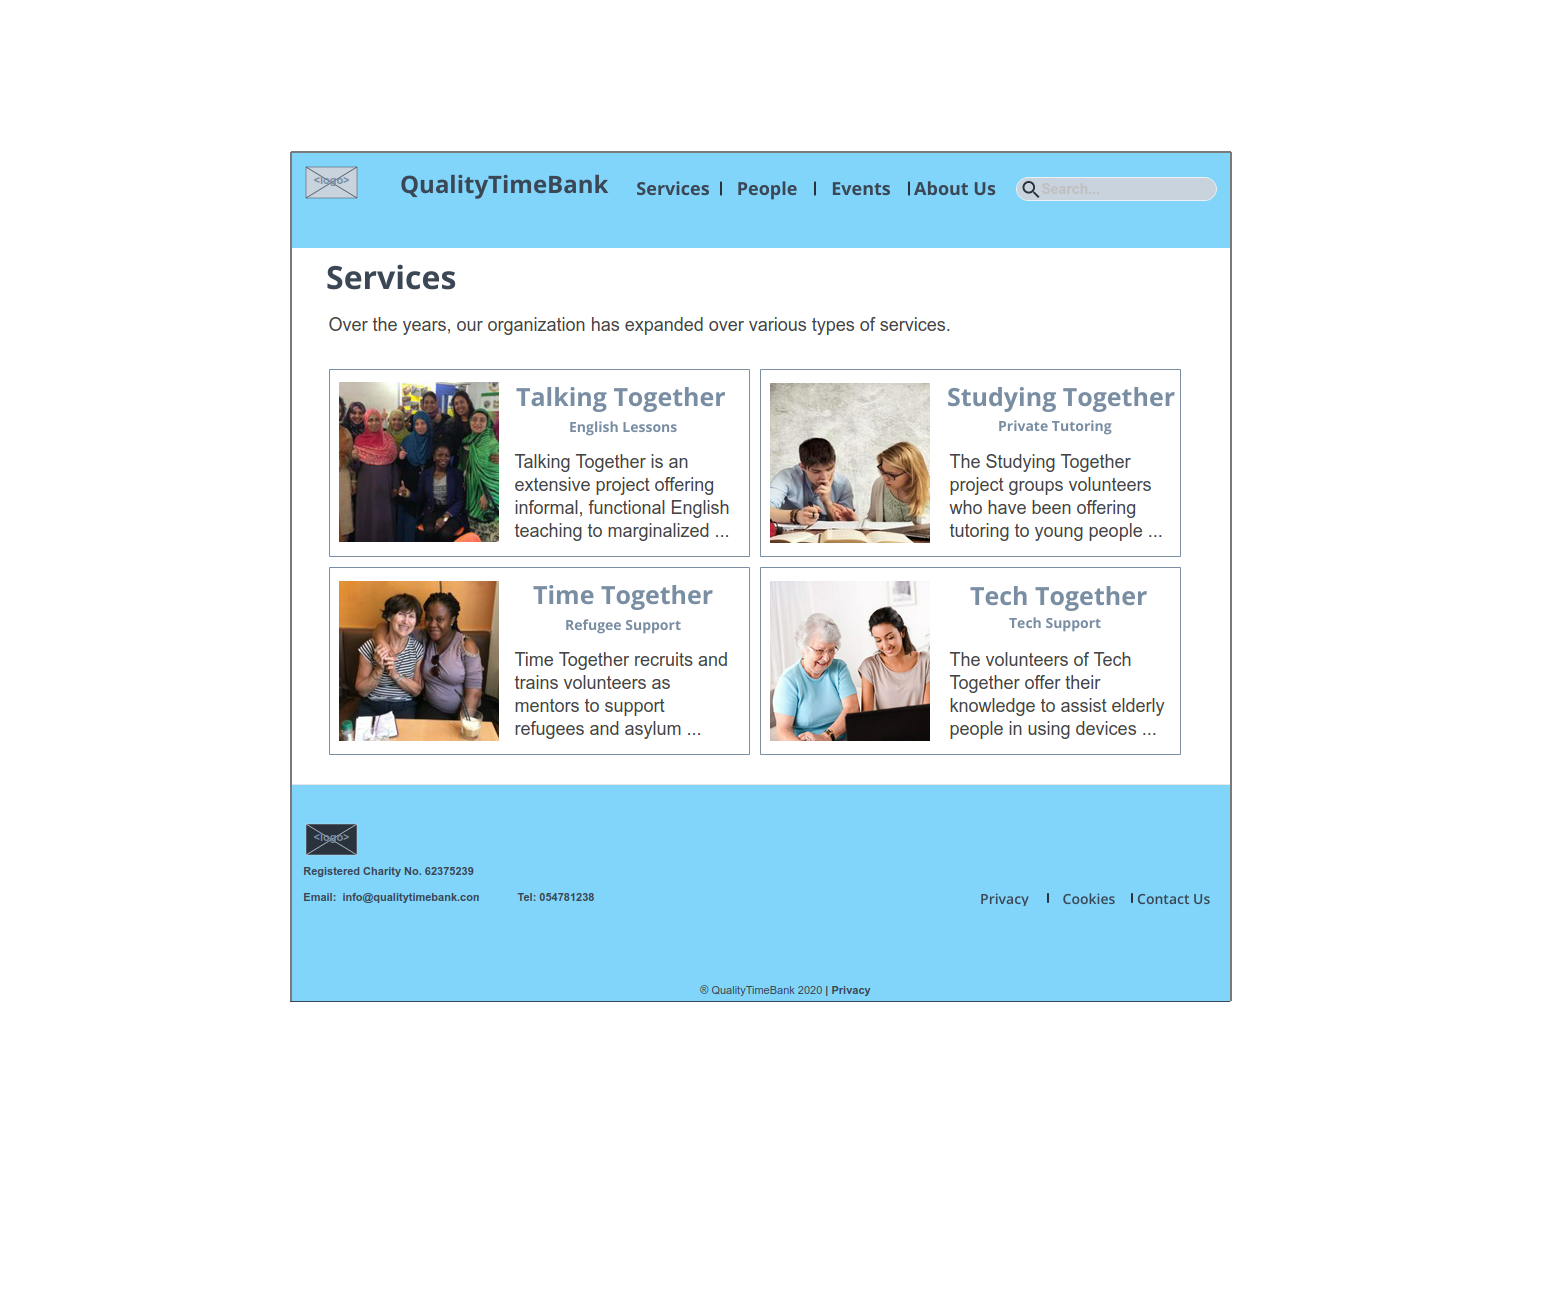
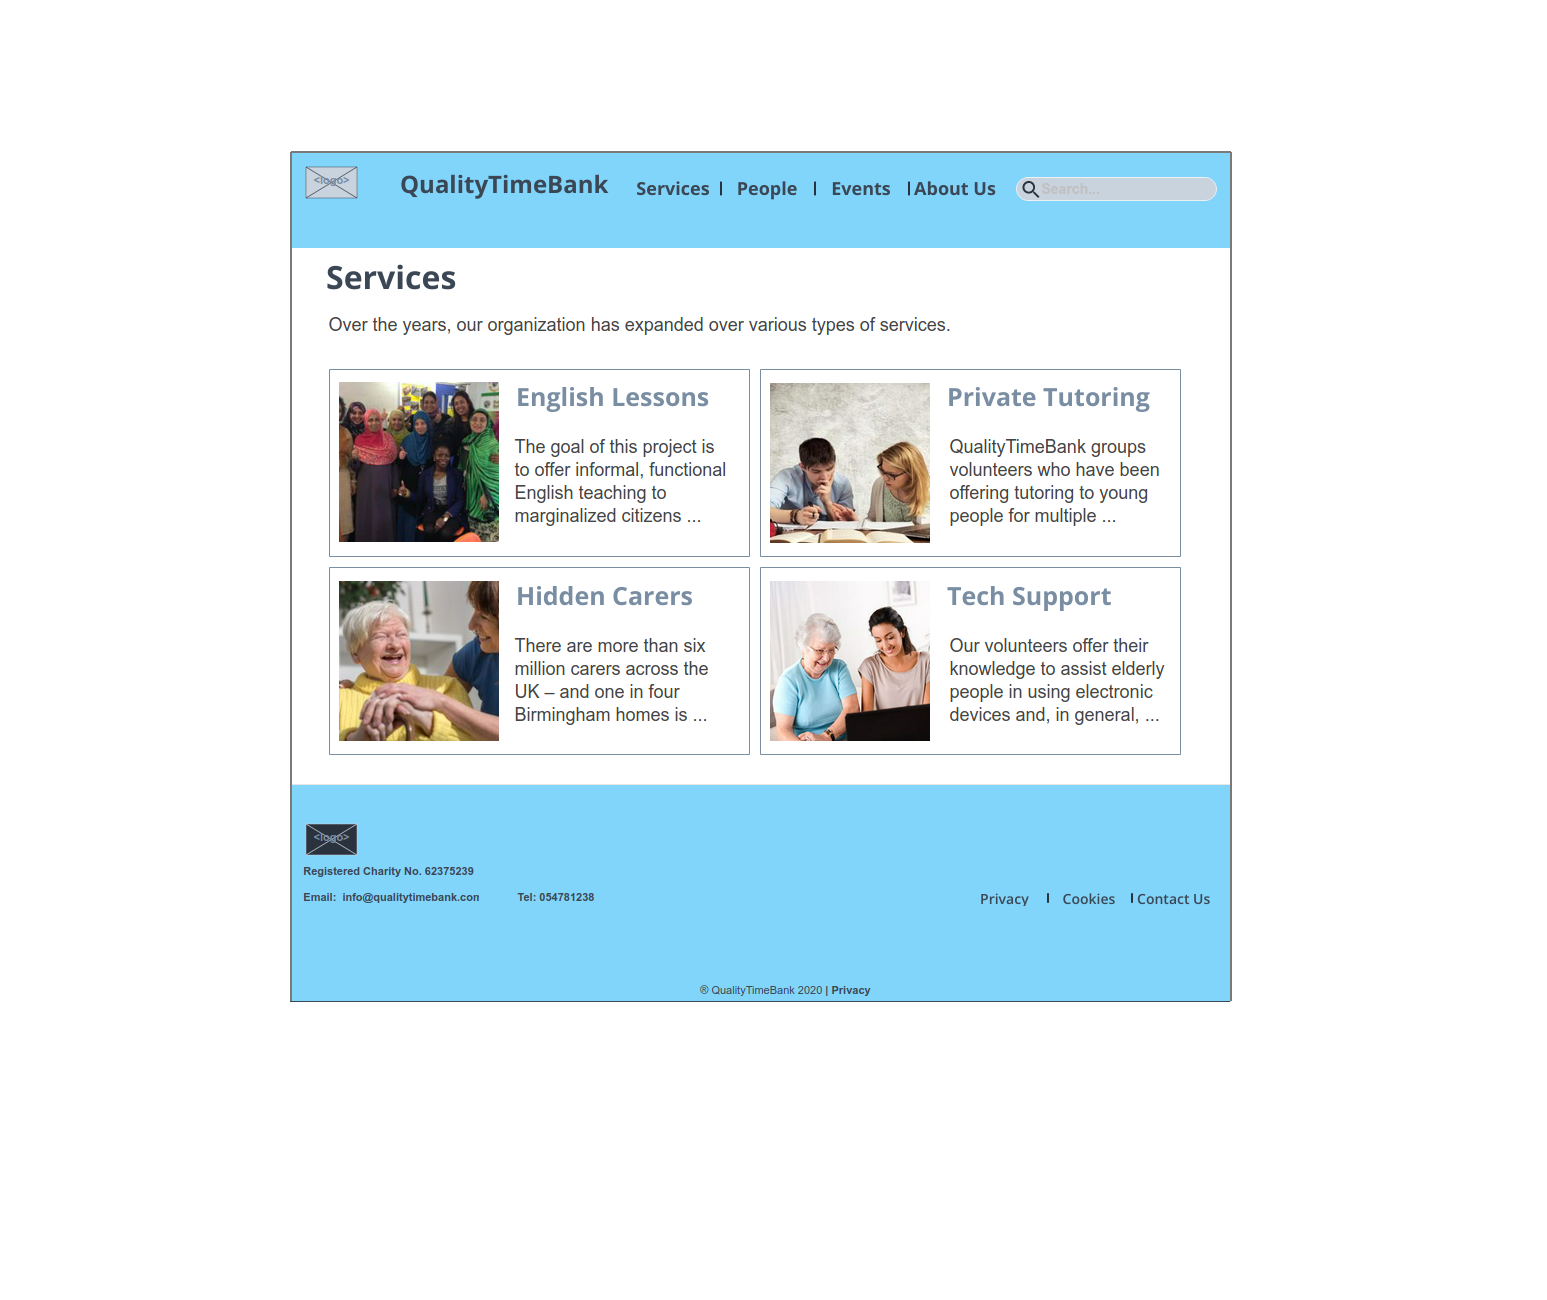
Scenario 1 and 2

Changed region(s): [[0.2172, 0.2769, 0.4654, 0.5846], [0.5895, 0.2769, 0.7447, 0.5846]]

diff --git a/DesignDocument/DesignDocument.tex b/DesignDocument/DesignDocument.tex
@@ -372,26 +372,75 @@ The design document of the project
     \includegraphics[width=1\linewidth, keepaspectratio]{IDM/P-IDM}
 \end{figure}
 
-
-
-
-
-
-
-
 \chapter{Scenarios}
 
 \section{Scenario 1}
 
-A couple of parents think that their daughter needs tutoring for school, so they look for a person who would be able to help her on the time bank website. They open the website and click on the "Services" button on the navigation bar. A list of the offered services will be then opened, including the link for the tutoring service. After clicking on the link, the parents will see the list of the volunteers that offer tutoring and, by opening one of the pages, they can see the contact information of the volunteer. 
+A couple of parents think that their daughter needs tutoring for school, so they look for a person who would be able to help her on the time bank website. They open the website and click on the "Services" button on the navigation bar (Figure \ref{fig:scenario-11}). A list of the offered services will be then opened, including the link for the tutoring service (Figure \ref{fig:scenario-12}). After clicking on the link, the parents will see the list of the volunteers that offer tutoring and, by opening the page of one of the volunteers (Figure \ref{fig:scenario-13}) , they can see his contact information (Figure \ref{fig:scenario-14}).
 
-\section{Scenario 2}
+\begin{figure}[H]
+	\centering
+	\includegraphics[width=1\linewidth, keepaspectratio]{scenarios/scenario-11}
+	\caption{}
+	\label{fig:scenario-11}
+\end{figure}
 
-Giovanni has been a gardener for the last twenty years, and his New Year's resolution is to share his knowledge with other people, so he searches for an event on gardening on the time bank website. After clicking the "Events" button on the home page, [come si accede ad events by month?]. He opens the page containing the events for the month of January, where he can find the link for the event he was looking for. 
+\begin{figure}[H]
+	\centering
+	\includegraphics[width=1\linewidth, keepaspectratio]{scenarios/scenario-12}
+	\caption{}
+	\label{fig:scenario-12}
+\end{figure}
+
+\begin{figure}[H]
+	\centering
+	\includegraphics[width=1\linewidth, keepaspectratio]{scenarios/scenario-13}
+	\caption{}
+	\label{fig:scenario-13}
+\end{figure}
+
+\begin{figure}[H]
+	\centering
+	\includegraphics[width=1\linewidth, keepaspectratio]{scenarios/scenario-14}
+	\caption{}
+	\label{fig:scenario-14}
+\end{figure}
+
+\section{Scenario 2}	
+
+Giovanni has been an English teacher for the last twenty years, and his New Year's resolution is to share his knowledge with other people. He has heard from a friend that the QualityTimeBank is presenting an English lessons service in January, so he searches the event. By clicking the "Events" button on the home page (Figure \ref{fig:scenario-21}), he reaches the events by month page. There, he opens the page containing the events for the month of January (Figure \ref{fig:scenario-22}), he finds the event he's looking for (Figure \ref{fig:scenario-23}), clicks on the link and reaches the page of the event (Figure \ref{fig:scenario-24}).
+
+\begin{figure}[H]
+	\centering
+	\includegraphics[width=1\linewidth, keepaspectratio]{scenarios/scenario-21}
+	\caption{}
+	\label{fig:scenario-21}
+\end{figure}
+
+\begin{figure}[H]
+	\centering
+	\includegraphics[width=1\linewidth, keepaspectratio]{scenarios/scenario-22}
+	\caption{}
+	\label{fig:scenario-22}
+\end{figure}
+
+\begin{figure}[H]
+	\centering
+	\includegraphics[width=1\linewidth, keepaspectratio]{scenarios/scenario-23}
+	\caption{}
+	\label{fig:scenario-23}
+\end{figure}
+
+\begin{figure}[H]
+	\centering
+	\includegraphics[width=1\linewidth, keepaspectratio]{scenarios/scenario-24}
+	\caption{}
+	\label{fig:scenario-24}
+\end{figure}
 
 \section{Scenario 3}
 
-Maria wants to make a donation to support the activities of the time bank. She opens the "Contact Us" page, and she fills the form with her contact information. She then selects "Donations" as the subject, and she writes a message. To conclude, she submits the form.
+TODO
 
 \chapter{Design in the small}
 \paragraph{Wireframe}
